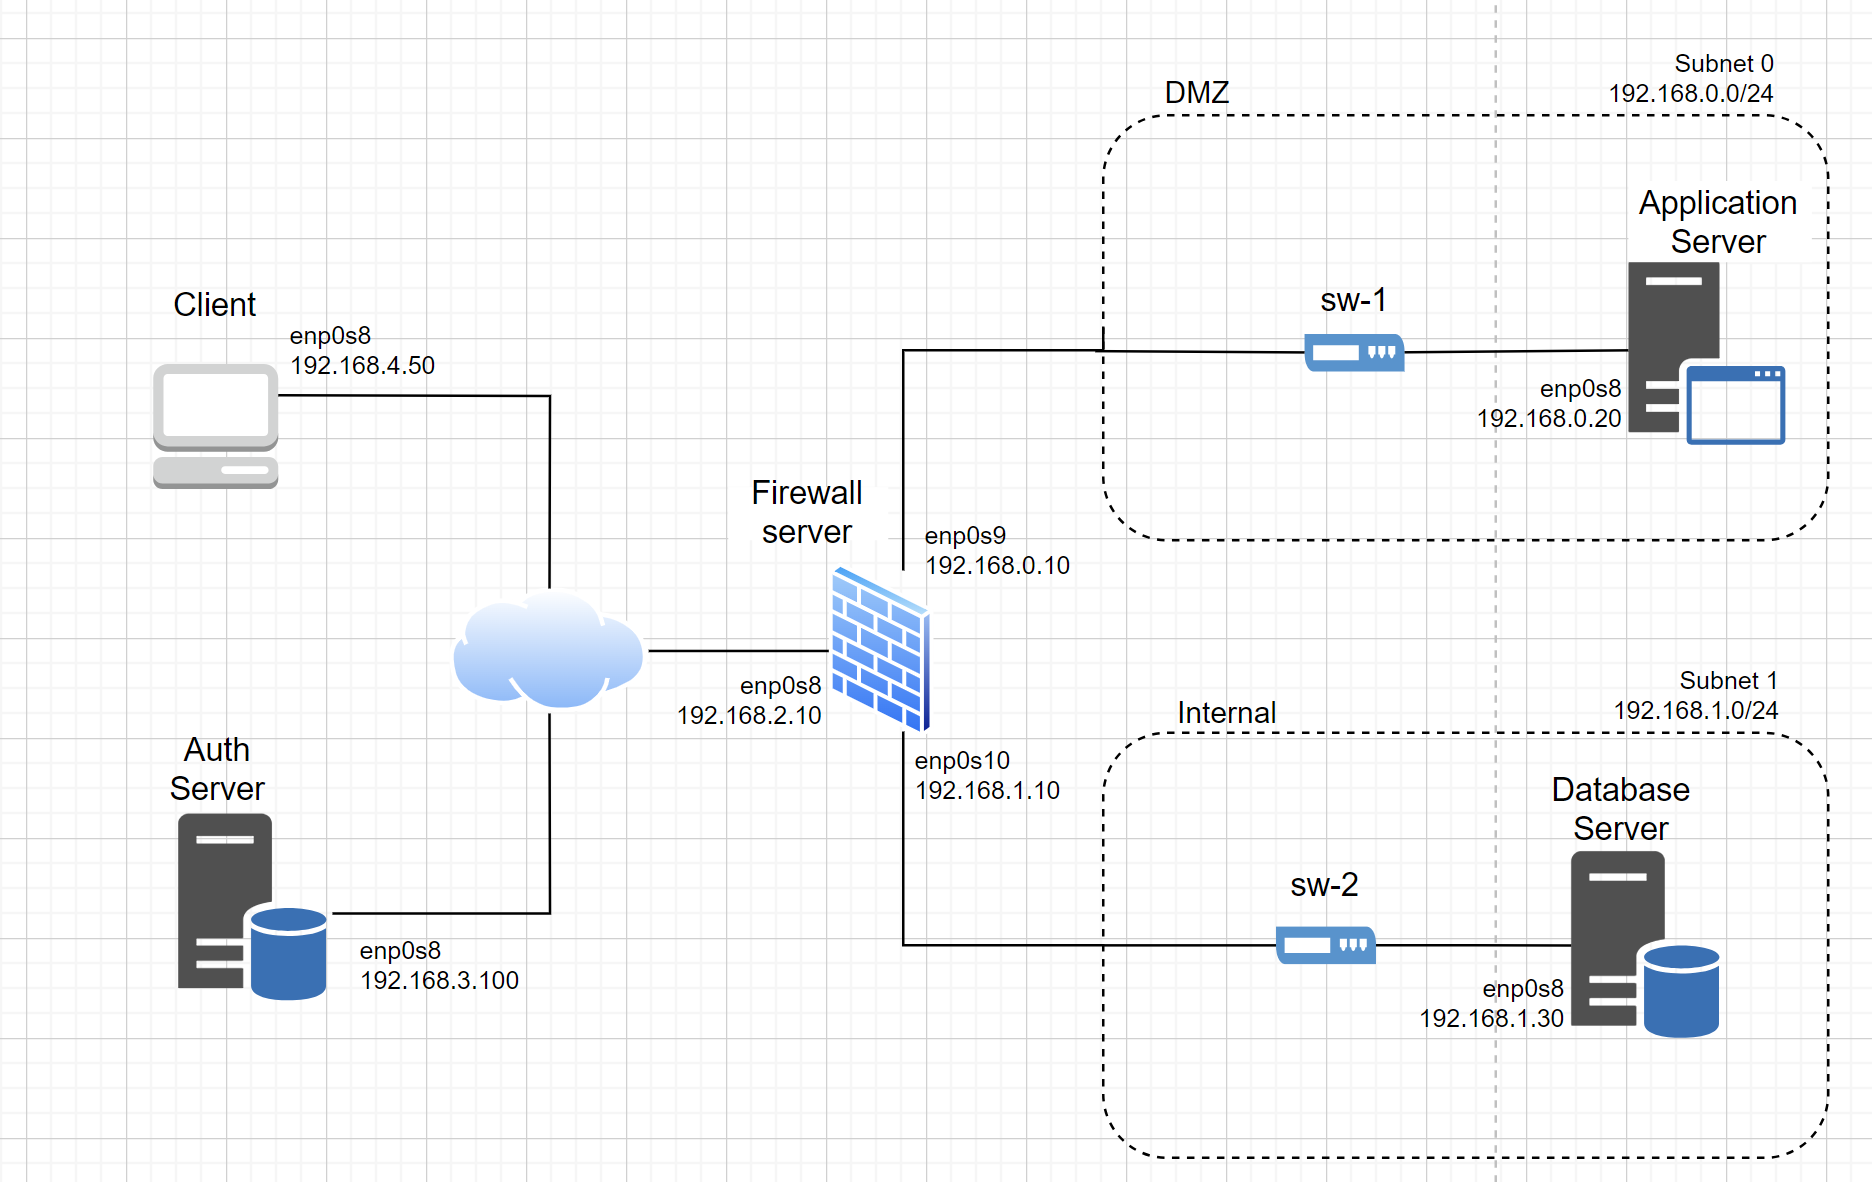
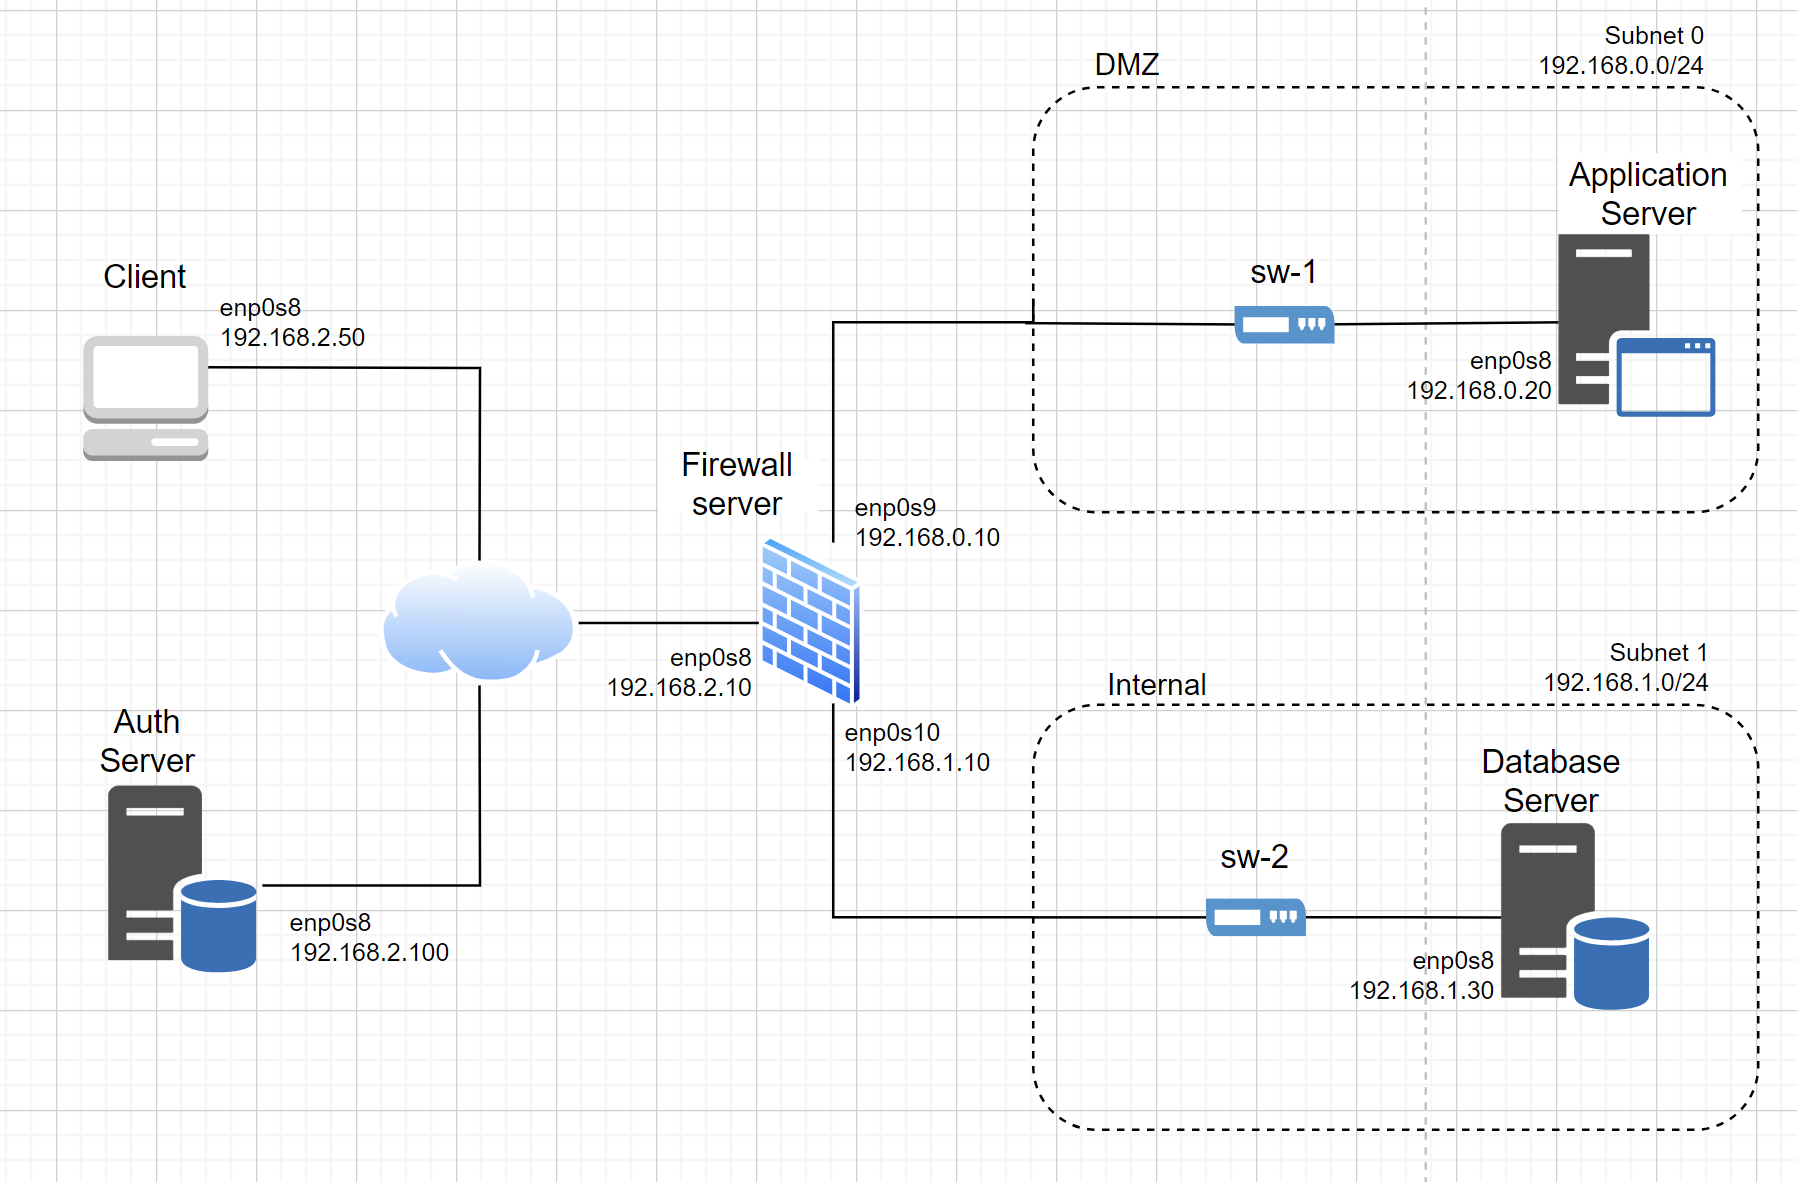
docs: Updated README draft

diff --git a/README.md b/README.md
@@ -6,13 +6,8 @@
 | -------|-------------------|----------------------------------| ------------------------------------|
 | 108444  | Tilde Eriksen Eine     | <https://github.com/tildeeine>   | <mailto:tilde.eine@tecnico.ulisboa.pt>   |
 | 96392  | Guilherme Luís Francisco Soares      | <https://github.com/guilhas07>     | <mailto:guilherme.luis.s@tecnico.ulisboa.pt>     |
-| 89377  | David Daniel Oliveira Cruz  | <https://github.com/ddavidcruzr> | <mailto:daviddcruz@tecnico.ulisboa.pt> |
 
-<img src="./img/tilde_profileimg.jpg" width="150">
-
-<img src="./img/guilherme_profile.png" height="150px"> ![Charlie](img/charlie.png)
-
-*(add face photos with 150px height; faces should have similar size and framing)*
+<img src="./img/tilde_profileimg.jpg" height="150px">   <img src="./img/guilherme_profile.png" height="150px">
 
 ## Contents
 
@@ -27,77 +22,247 @@ This document presents installation and demonstration instructions.
 
 ## Installation
 
-To see the project in action, it is necessary to setup a virtual environment, with 2 internal networks and 5 machines.  
+To see the project in action, it is necessary to set up a virtual environment, with 5 machines, 2 internal networks, and a third network that simulates an external network, or running over the internet.   
 
 The following diagram shows the networks and machines:
 
-![Infrastructure](img/inrfa-op2-single-fw.png)
+![Infrastructure](img/Infrastructure.png)
+
+All the virtual machines are based on: Ubuntu 64-bit, VERSION!!
+
+We chose to use Vagrant to automate the setup of our machines and infrastructure as much as possible. The following instructions will therefore be focused on how to set up vagrant. 
 
 ### Prerequisites
 
-All the virtual machines are based on: Linux 64-bit, Kali 2023.3  
+Before you begin, ensure you have the following software installed on your machine:
+- [Vagrant](https://www.vagrantup.com/downloads) - Download and install Vagrant.
+- [VirtualBox](https://www.virtualbox.org/wiki/Downloads) - Download and install VirtualBox.
 
-[Download](https://...link_to_download_installation_media) and [install](https://...link_to_installation_instructions) a virtual machine of Kali Linux 2023.3.  
-Clone the base machine to create the other machines.
-
+#### MAC?
 
 ### Machine configurations
 
-For each machine, there is an initialization script with the machine name, with prefix `init-` and suffix `.sh`, that installs all the necessary packages and makes all required configurations in the a clean machine.
+For each machine, there is an initialization script with the machine name, with prefix `init-` and suffix `.sh`, that you can find the [init-scripts folder](./vagrant/init-scripts/). These scripts, combined with the shell scripts in the Vagrantfile, install all the necessary packages and make all the required configurations in a clean machine.
 
-Since we use Vagrant, we should not need to manually run anything. To see detailed instuctions for project setup, please see [SETUP](SETUP.md). 
+Here, we will first give instructions for setting for Vagrant, before we explain the content of each machine, and give commands to verify and test the setup for each  machine. To access the machines after they have been set up, you have to use Vagrant SSH.  
 
-Here, we will explain the content of each machine, and give commands to verify and and test for each machine. You can access the machines either through SSH, as described in [SETUP](SETUP.md), or open them normally through the vbox GUI. 
+#### Vagrant setup
+1. **Clone and open the repository**
+    On your host machine, run these commands to clone and open the repository:
+   ```bash
+   git clone https://github.com/tecnico-sec/a31-tilde-david-guilherme.git
+   cd a31-tilde-david-guilherme
+   ```
+2. **Navigate the to Vagrant folder**  
+    ```
+    cd vagrant
+    ```
+3. **Start the Vagrant environment**
+   ```bash
+   vagrant up
+   ```
+   Make sure you are in the `Vagrant` directory when you run this command. 
 
+   Running this command may take a while, so just wait while Vagrant downloads the base boxes and provisions the VMs. 
+4. **Access the VMs**
+   
+    After Vagrant finishes provisioning the VMs, you can access individual VMs using SSH:
+
+    ```
+    vagrant ssh <name of VM>
+    ```
+    Replace `name of VM` with the specific VM you want to access. The VMs set up for this project are:
+    | Machine               | Name of VM     |
+    | --------------------- | -------------- |
+    | Client machine        | client_machine |
+    | Application server    | app_server     |
+    | Database server       | db_server      |
+    | Authentication server | auth_server    |
+    | Firewall server       | fw_server      |
+
+You should now be able to access the VMs. 
+
+When you are done and want to stop running the VMs, you can use halt:
+```
+vagrant halt
+```
+To remove the VMs permanently and clean up, use:
+```
+vagrant destroy -f
+```
+**Note:** This will permanently delete the VMs and their data.
 
 #### Application Server
 
-This machine runs the main functionality of the MediTrack system, by running the backend and exposing a CLI API to clients. It runs the MediTrackBackend code, using the CryptoLib. It should be open to communication from clients runnng the Client program. 
+This machine runs the main functionality of the MediTrack system, by running the backend and exposing a CLI API to clients. It runs the MediTrackBackend code, using the CryptoLib. It should be able to communicate with clients and the database over TLS/SSL. 
 
 To verify:
 
 ```sh
-$ setup command
+vagrant ssh app_server
 ```
+To verify and test the setup for the application server, you can provide the following commands and expected results in your README:
 
-To test:
+**Verify Setup:**
 
+**Vagrant**
+```sh
+vagrant ssh app_server
+```
+This command will log you into the application server VM. After executing this command, you should be inside the VM, and the command prompt should reflect that, as you should see the user as `vagrant@a31-MediTrack-app-server:~$`.
+
+**Dotnet**
+```sh
+dotnet --version
+```
+This command checks if the .NET runtime is installed. You should see the version of .NET installed without any errors.
+
+**To test:**
+Insert commands for running the MediTrack program. 
 ```sh
 $ test command
 ```
 
-*(replace with actual commands)*
 
-The expected results are ...
-
-*(explain what is supposed to happen if all goes well)*
-
-If you receive the following message ... then ...
-
-*(explain how to fix some known problem)*
+```sh
+ip addr show enp0s8
+```
+This command displays the network configurations for the VM. The provisioning script should set up the enp0s8 interface with the IP address `192.168.0.20`. 
 
 #### Client machine
 
-*(similar content structure as Machine 1)*
+This machine server as a client in the MediTrack system. The client can interact with the application server to securely access patient data. The machine runs the client-side code, which runs a CLI interface for the MediTrack program. 
+
+**Verify setup:**
+**Vagrant**
+
+```sh
+vagrant ssh client_machine
+```
+You should be able to SSH into the machine without issues. After executing the command, you should be inside the VM, and the command prompt should have the user `vagrant@a31-MediTrack-client-machine`
+
+**Dotnet**
+
+```sh
+dotnet --version
+```
+This command checks if the .NET runtime is installed. You should see the version of .NET installed without any errors. 
+
+**Test setup:**
+Before running, the tests, make sure the rest of the machines are up and running. 
+
+
+```sh
+ip addr show enp0s8
+```
+This command displays the network configurations for the VM. The provisioning script should set up the enp0s8 interface with the IP address `192.168.1.30`.
 
 #### Firewall Server
 
-*(similar content structure as Machine 1)*
+The firewall server is an important part of securing the application and database servers in our system, and ensuring correct communication between different components in the MediTrack system. It manages network traffic, controls access, and ensures that data exchanges follow predefined rules. Below are instructions for verifying and testing the setup of the firewall server. 
+
+**To verify:**
+**Vagrant**
+
+```sh
+vagrant ssh fw_server
+```
+This command logs you into the firewall server VM. After executing this command, you should be inside the VM, and the command prompt should reflect that, as you should see the user as `vagrant@a31-MediTrack-firewall-server:~$`.
+
+**Dotnet**
+
+```sh
+dotnet --version
+```
+This command checks if the .NET runtime is installed. You should see the version of .NET installed without any errors.
+
+**Iptables persistent**
+
+```sh
+iptables-persistent --version
+```
+This command checks if iptables-persistent is installed. This is important for the firewall and NAT rules that we set up with iptables-persistent to be persistent between boots of the VM. You should see the version of iptables-persistent installed during the Vagrant provisioning. Since this installation requires answers to user prompts, there might be issues during the installation, even though we use debconf in the Vagrant provisioning. If you don't have iptables-persistent on your macine, please run the following command to install it:
+
+```sh
+sudo apt install iptables-persistent
+```
+Answer yes to the prompts. This should automatically save the current iptables setup, so the rules that were declared in the [firewall initialization script](/vagrant/init-scripts/init-fw-server.sh). 
+
+**Test setup:**
+Still using SSH to access the firewall machine, run the following commands to test the setup. 
+
+```sh
+sudo iptables -L -n
+```
+This command shows you the current iptables setup. (INSERT WHAT TABLE SHOULD LOOK LIKE HERE)
+
+```sh
+ip addr show enp0s8
+ip addr show enp0s9
+ip addr show enp0s10
+```
+These commands display the network configurations for the different interfaces for the VM. The provisioning script should set up the enp0s9 interface with the IP address `192.168.0.10`, enp0s10 interface as `192.168.1.10`, and the enp0s8 interface with the address `192.168.2.10`.
 
 #### Database Server
 
-*(similar content structure as Machine 1)*
+The database server is responsible for hosting the MySQL database used by the MediTrack system. It is essential for storing and managing data, and should only communicate with the application server, through the firewall. 
+
+**Verify setup:**
+**Vagrant**
+```sh
+vagrant ssh db_server
+```
+This command logs you into the database server VM. After executing this command, you should be inside the VM, and the command prompt should reflect that, as you should see the user as `vagrant@a31-MediTrack-db-server:~$`.
+
+**Dotnet**
+
+```sh
+dotnet --version
+```
+This command checks if the .NET runtime is installed. You should see the version of .NET installed without any errors.
+
+**MySQL**
+
+```
+mysql --version
+```
+This command checks if MySQL is installed. You should see the version of MySQL installed without any errors.
+
+**Test setup:**
+INSERT CHECK OF DATABASE CONTENT
+
+
+```sh
+ip addr show enp0s8
+```
+This command displays the network configurations for the VM. The provisioning script should set up the enp0s8 interface with the IP address `192.168.1.30`.
 
 #### Authentication Server
+Teh authentication server is an important part of ensuring the security of the system. It is used to verify the signatures and encryption used in the other components of the system. 
 
-*(similar content structure as Machine 1)*
+**Vagrant**
+```sh
+vagrant ssh db_server
+```
+This command logs you into the database server VM. After executing this command, you should be inside the VM, and the command prompt should reflect that, as you should see the user as `vagrant@a31-MediTrack-db-server:~$`.
 
+**Dotnet**
+
+```sh
+dotnet --version
+```
+This command checks if the .NET runtime is installed. You should see the version of .NET installed without any errors.
 
 ## Demonstration
 
-Now that all the networks and machines are up and running, ...
+Now that all the networks and machines are up and running, we can have a look at the actual functionality of the system. 
 
 *(give a tour of the best features of the application; add screenshots when relevant)*
+- Show the different functions of the client-side system
+- Show what it looks like when we encrypt or decrypt a record
+- Perform simulated attacks to show the defenses in action
+    - Use nmap and try port scanning from client on firewall server
+    - Show "packet interception" to show that both the communication itself (TLS) and the packets (secure documents) are encrypted as a security mechanism
 
 ```sh
 $ demo command
@@ -113,13 +278,11 @@ This concludes the demonstration.
 
 ### Links to Used Tools and Libraries
 
-- [Java 11.0.16.1](https://openjdk.java.net/)
-- [Maven 3.9.5](https://maven.apache.org/)
-- ...
-
-### Versioning
-
-We use [SemVer](http://semver.org/) for versioning.  
+- [C#]()
+- [.NET]()
+- [Vagrant]()
+- [VirtualBox]()
+- [MySQL]()
 
 ### License
 
